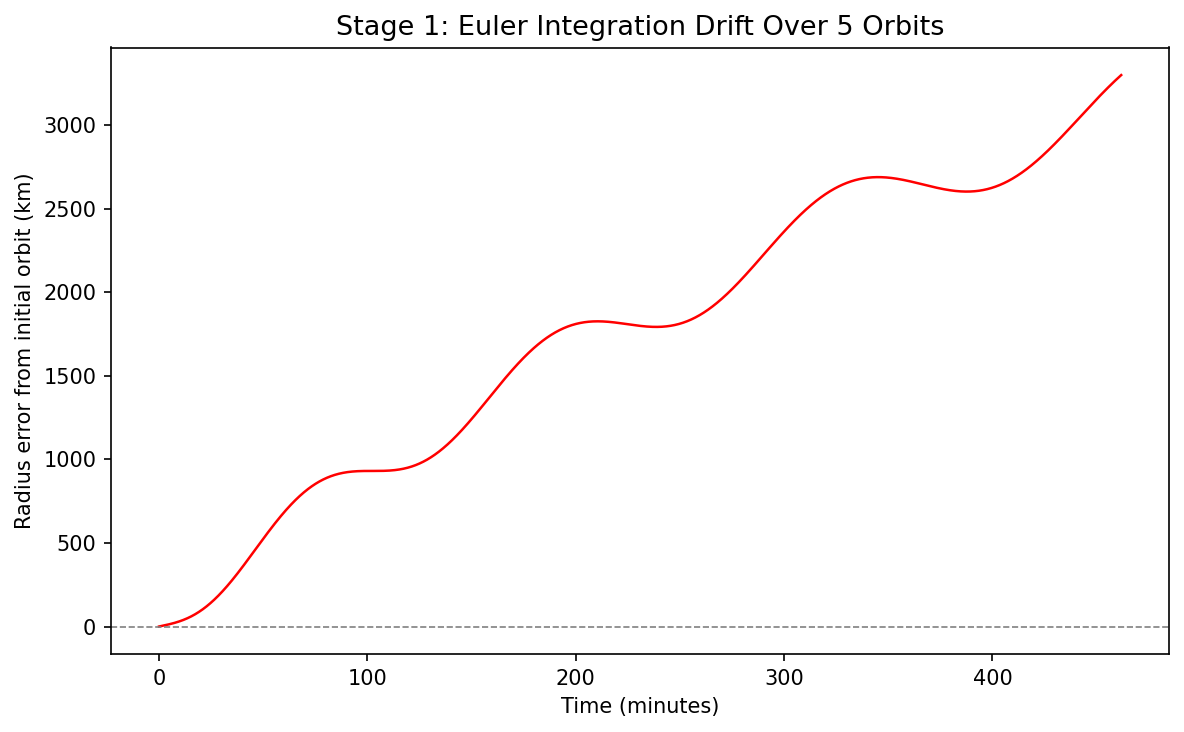
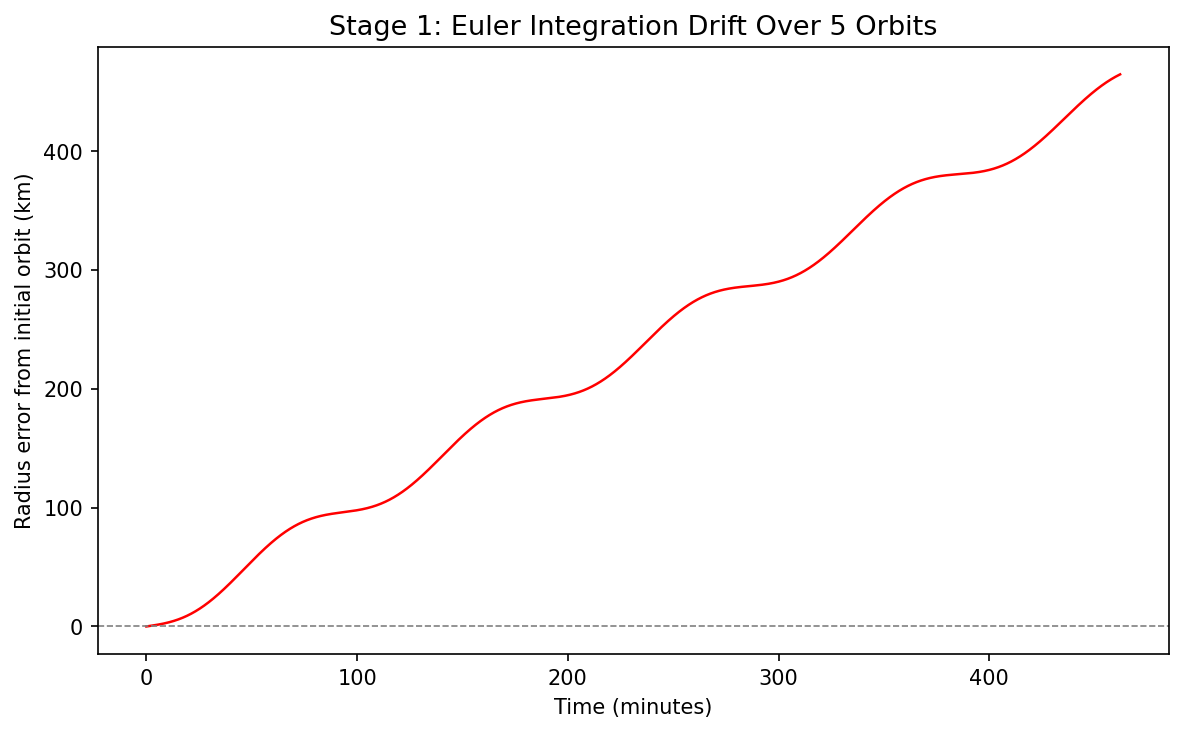
Stage 1 complete — README updated with results, reflection, and orbit visualization

diff --git a/orbital_simulator.py b/orbital_simulator.py
@@ -80,6 +80,32 @@ def calculate_orbital_energy(positions, velocities):
     return initial_energy, final_energy, energy_drift_pct
 
 
+def measure_orbital_period(positions, dt):
+    # Measures the orbital period from trajectory data by detecting
+    # when the satellite completes a full orbit (y crosses zero from
+    # negative to positive, i.e. returns to the +x axis).
+    # Uses linear interpolation for sub-timestep accuracy.
+    crossing_times = []
+    for i in range(1, len(positions)):
+        y_prev = positions[i - 1, 1]
+        y_curr = positions[i, 1]
+        # Detect positive-going zero crossing (y goes from - to +)
+        if y_prev < 0 and y_curr >= 0:
+            # Linear interpolation to find precise crossing time
+            frac = -y_prev / (y_curr - y_prev)
+            t_cross = (i - 1 + frac) * dt
+            crossing_times.append(t_cross)
+
+    if len(crossing_times) < 2:
+        return None, []
+
+    # Period = time between consecutive crossings
+    periods = [crossing_times[j] - crossing_times[j - 1]
+               for j in range(1, len(crossing_times))]
+    avg_period = sum(periods) / len(periods)
+    return avg_period, periods
+
+
 def plot_results(positions, dt, steps, altitude):
     # Handles all matplotlib logic for plotting orbit and drift.
     os.makedirs("images", exist_ok=True)
@@ -133,7 +159,7 @@ if __name__ == "__main__":
 
     # 2. Simulation parameters
     num_orbits = 5
-    dt = 10.0
+    dt = 1.0
     r_orbit = R_earth + ALTITUDE
     T_kepler = 2 * np.pi * np.sqrt(r_orbit**3 / mu_earth)
     steps = round((num_orbits * T_kepler) / dt)
@@ -150,13 +176,19 @@ if __name__ == "__main__":
     print(f"Energy Drift (Euler):    {energy_drift_pct:.4f}%")
     print("Note: The 'phantom energy' drift observed is a direct result of the Taylor series truncation error of the Euler method.\n")
     
-    # Kepler period check
-    T_simulated = (steps * dt) / num_orbits
-    period_error_pct = abs(T_simulated - T_kepler) / T_kepler * 100
+    # Kepler period check — measured from trajectory data
+    T_measured, all_periods = measure_orbital_period(positions, dt)
     print("--- Kepler Period Verification ---")
     print(f"Kepler period:    {T_kepler:.1f} s ({T_kepler/60:.2f} min)")
-    print(f"Simulated period: {T_simulated:.1f} s")
-    print(f"Period error:     {period_error_pct:.2f}%\n")
+    if T_measured is not None:
+        period_error_pct = abs(T_measured - T_kepler) / T_kepler * 100
+        print(f"Measured period:  {T_measured:.1f} s (avg of {len(all_periods)} orbits)")
+        print(f"Period error:     {period_error_pct:.2f}%")
+        if len(all_periods) > 1:
+            print(f"  Per-orbit periods: {', '.join(f'{p:.1f} s' for p in all_periods)}")
+    else:
+        print("  Could not measure period (not enough complete orbits).")
+    print()
     
     # 5. Visualizations
     plot_results(positions, dt, steps, ALTITUDE)

diff --git a/README.md b/README.md
@@ -1,45 +1,130 @@
-# Orbital Simulator
-### A Computational Model of Newtonian orbital mechanics
-*Built independently alongside undergraduate course work at community college, 2026-2027*
+# Orbital Simulator: A Computational Model of Newtonian Orbital Mechanics
+
+A Python orbital mechanics simulator built from first principles — Newtonian gravity, numerical integration, and physically verified orbital trajectories.
+
+Validated against analytical results: gravitational acceleration at altitude and Kepler's Third Law orbital period.
+
+*Built to be an independent and self-researched aerospace lab.*
+
+![2D orbit of a 400 km satellite around Earth using Euler](./images/stage1_orbit.png)
+
+**Author: Yashaswi Burugupalli**
 
 ---
 
 ## Why This Exists
 
-I started this project with a specific goal in mind: to understand how the same mathematics I learn in the classroom can be used to build a visual representation of the path of a spacecraft travelling between planets.
 
-I am an international student on a dependent visa. I have no work authorization and cannot take paid internships or formal research positions. This project is my answer to that constraint. If I cannot 
-work inside an aerospace lab, I can build one. 
-
-The simulator will be developed in four stages, each designed to match the concepts I am learning at the time. Stage 1 beings now, grounded in Newtonian gravity and basic numerical integration. My plan of each subsequent stage is to build on top of the coursework will be learning.
+I started this project to learn how mathematics can be used to build a visual representation of the path of a spacecraft travelling between planets. As an international student on a dependent visa without work authorization and ineligible to take paid internship or paid research positions, I decided if I could not work inside an aerospace lab, I could build one.
 
 ---
 
-## Project Stages
+## Project Roadmap
 
-### Stage 1 – 2D Newtonian Gravity and Euler Integration
-*In progress – March 2026*
+The simulator is structured in six sequential stages:
 
-Implementing two-body Newtonian gravity with Euler method numerical integration and matplotlib visualization. I will verify results against Kepler’s Third Law as a physics consistency check.
+```
+Stage 1 --> Stage 2 --> Stage 3 --> Stage 4 --> Stage 5 --> Stage 6
+[Euler]   [RK4/Energy]  [3D/Missions] [Polish] [J2 Modelling] [Lambert]
+```
 
-### Stage 2 – RK4 Integration & Energy Conservation
-*Planned Summer 2026*
+---
 
-### Stage 3 – 3D Orbital Mechanics & Mission Scenarios
-*Planned Fall 2026*
+### Stage 1: 2D Newtonian Gravity and Euler Integration
+*Completed - June 2026*
 
-### Stage 4 – Documentation & Polish
-*Planned October 2026*
+The goal of Stage 1 was to build a simulation that produced a realistic orbit when implemented from first principles. The simulation models a satellite orbiting Earth at an altitude of 400 km, similar to the ISS, using Newtonian gravity and numerical time integration.
+
+This simulation assumes:
+
+- Earth is a stationary central body
+- Gravity follows Newton's inverse-square law
+- Atmospheric drag is neglected
+- The orbit begins as a circular low Earth orbit
+
+The satellite's acceleration is computed using:
+
+```
+a = -mu * r / |r|^3
+```
+
+where:
+
+- `mu` is Earth's standard gravitational parameter (m³/s²)
+- `r` is the position vector of the satellite (m)
+
+A critical phenomenon I came across while calculating the physics is how the mass of the satellite cancels when I apply F = ma to Newton's law of gravitation. This derivation deepened my understanding and allowed me to truly understand why all objects experience the same gravitational acceleration regardless of mass — a result that can as a genuine surprise.
+
+#### Validation
+
+Before trusting the orbit visually, I checked the simulation against two analytical results: the expected gravitational acceleration at altitude, and the orbital period predicted by Kepler's Third Law at two different timesteps (`T = 2*pi*sqrt(r^3 / mu)`).
+
+| Check | Expected (analytical) | Simulated | Error |
+|---|---:|---:|---:|
+| Gravitational acceleration at 400 km altitude | 8.6939 m/s² | 8.6939 m/s² | 0% |
+| Kepler's Verification @ dt = 10.0s | 5,545 s (92.42 min) | 7937 s | 43.14% |
+| Kepler's Verification @ dt = 1.0s | 5,545 s (92.42 min) | 5841.3 s | 5.34% |
+
+Something that came as a shock to me was the extremely large orbital period with an error of 43.14% at my original dt = 10.0s timestep. Forward Euler's non-symplectic nature, resulting from position updating before velocity, causes systematic energy injection. The per-step error compounds so severely that the orbit inflates dramatically within a single period. After testing different values for dt, I found the value of dt = 1.0s returned an acceptable but still large 5.34% error.
+
+#### Orbit Visualization
+
+![Figure 1: A 2D orbit of a 400 km satellite under Newtonian gravity with Euler integration.](./images/stage1_orbit.png)
+*Figure 1: A 2D orbit of a 400 km satellite under Newtonian gravity with Euler integration.*
+
+The simulation successfully produced a closed orbital path initially with one iteration. However, when simulated over multiple orbital periods, I found that the orbit gradually expanded outward.
+
+I learned this behavior was not caused by an error in the gravitational model but emerged from the numerical integration method itself.
+
+#### Euler Drift
+
+![Figure 2: A plot of the radius error from the initial circular radius over time, in kilometres and minutes, spanning five orbital periods.](./images/stage1_drift.png)
+*Figure 2: A plot of the radius error from the initial circular radius over time, in kilometres and minutes, spanning five orbital periods.*
+
+Over five orbital periods, the simulated orbit accumulated significant radial error. The spacecraft gradually gained orbital energy and spiraled away.
+
+However, what intrigued me more was the shape of the drift when graphed. As can be seen in figure 2, the graph takes on a sinusoidal wave pattern on a persistent upward trend. Upon further research on this observation, I learned that this wave pattern reflects the non-uniform manner in which forward Euler's method injects artificial energy, transforming the initially circular path into an increasingly elliptical one. As a result of plotting the absolute difference between the current radius and the initial circular radius, this physical transformation manifested as an oscillation on the graph.
+
+A fundamental limitation of Euler integration is its assumption that acceleration remains constant throughout each timestep. What I found most interesting was that a mathematically valid algorithm still produced a physically incorrect result.
+
+Forward Euler structurally failed because it is a first-order, non-symplectic integrator. It fails to preserve the Hamiltonian structure of the orbital system. This shortcoming causes the injection of artificial specific orbital energy forcing the orbit to spiral outward.
+
+---
+
+### Stage 2: RK4 Integration & Energy Conservation
+
+*In progress - June 2026*
+
+Currently working to replace the forward Euler method with fourth-order Runge-Kutta (RK4) integration, add energy conservation tracking, and introduce the Earth-Moon system.
+
+---
+
+### Stage 3: 3D Orbital Mechanics & Mission Scenarios
+
+*Planned - Fall 2026*
+
+---
+
+### Stage 4: Documentation and Polish
+
+*Planned - October 2026*
+
+---
+
+### Stage 5: J2 Perturbation Modelling
+
+*Planned - November 2026*
+
+---
+
+### Stage 6: Lambert's Problem
+
+*Planned - December 2026*
 
 ---
 
 ## Tools & Dependencies
-- Python 3.13.9 — NumPy, matplotlib
-- Anaconda enviornment
-- VS Code
 
----
-
-## About
-Built By: Yashaswi Burugupalli — community college student,
-aspiring aerospace engineer, independent learner.
+- **Python 3.13.9** - NumPy, Matplotlib
+- **Anaconda** environment
+- **VS Code**